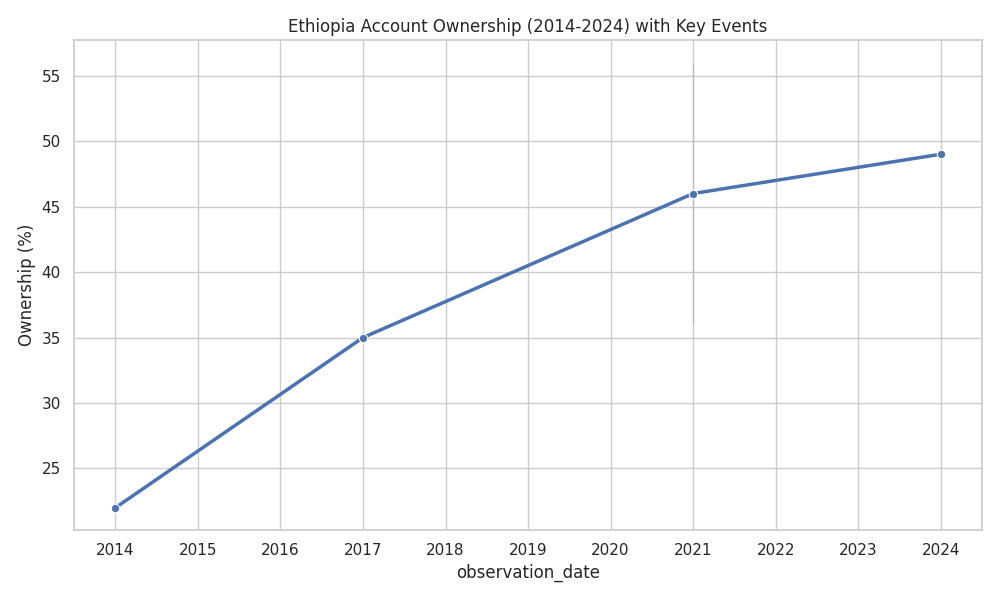
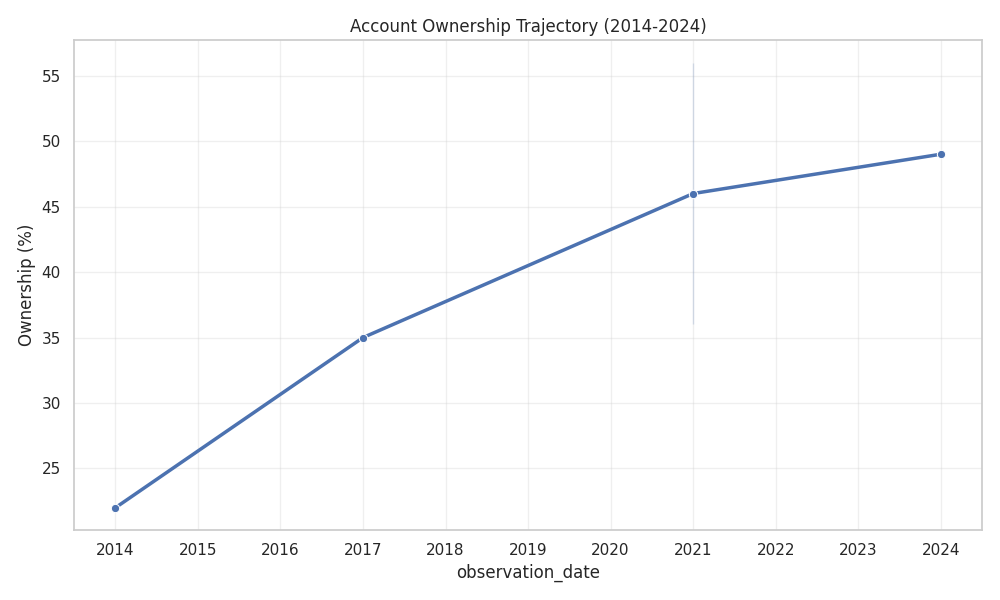
fix: add data enrichment log, event timeline, and active-user plots per feedback

Changed region(s): [[0.279, 0.03, 0.775, 0.06]]

diff --git a/notebooks/run_eda.py b/notebooks/run_eda.py
@@ -1,12 +1,12 @@
 import sys
 import os
 
-# Add parent directory to path so we can import src
 sys.path.append(os.path.abspath(os.path.join(os.path.dirname(__file__), "..")))
 
 import pandas as pd
 import matplotlib.pyplot as plt
 import seaborn as sns
+import matplotlib.dates as mdates
 from src.data import load_data, get_observations, get_enriched_data, get_events
 
 # Setup
@@ -14,15 +14,112 @@ os.makedirs("reports/figures", exist_ok=True)
 sns.set_theme(style="whitegrid")
 
 
+def plot_data_quality_summary(df):
+    """Task 1: Explicit Data Quality & Coverage Analysis"""
+    fig, axes = plt.subplots(1, 2, figsize=(14, 5))
+
+    # 1. Count by Record Type
+    sns.countplot(data=df, x="record_type", ax=axes[0], palette="viridis")
+    axes[0].set_title("Dataset Composition by Record Type")
+    axes[0].set_ylabel("Count")
+
+    # 2. Count by Confidence Level
+    sns.countplot(
+        data=df,
+        x="confidence",
+        ax=axes[1],
+        palette="magma",
+        order=["high", "medium", "low", "estimated"],
+    )
+    axes[1].set_title("Data Confidence Levels")
+
+    plt.tight_layout()
+    plt.savefig("reports/figures/data_quality_summary.png")
+    print("Generated reports/figures/data_quality_summary.png")
+
+
+def plot_event_timeline_dedicated(df):
+    """Task 2: Dedicated Event Timeline Visualization"""
+    events = get_events(df).copy()
+    events = events.dropna(subset=["observation_date"])
+    events = events.sort_values("observation_date")
+
+    plt.figure(figsize=(12, 6))
+
+    # Create a timeline where Y-axis is the category
+    sns.scatterplot(
+        data=events,
+        x="observation_date",
+        y="category",
+        hue="category",
+        s=200,
+        marker="D",
+        palette="deep",
+        legend=False,
+    )
+
+    # Add vertical lines dropping to the x-axis
+    for _, row in events.iterrows():
+        plt.vlines(
+            x=row["observation_date"],
+            ymin=0,
+            ymax=row["category"],
+            color="grey",
+            linestyle=":",
+            alpha=0.5,
+        )
+        plt.text(
+            row["observation_date"],
+            row["category"],
+            f" {row['indicator']}",
+            verticalalignment="bottom",
+            fontsize=9,
+            rotation=20,
+        )
+
+    # Format X-axis
+    plt.gca().xaxis.set_major_locator(mdates.YearLocator())
+    plt.gca().xaxis.set_major_formatter(mdates.DateFormatter("%Y"))
+
+    plt.title("Timeline of Financial Inclusion Events (2021-2025)")
+    plt.grid(True, axis="x", alpha=0.3)
+    plt.tight_layout()
+    plt.savefig("reports/figures/event_timeline.png")
+    print("Generated reports/figures/event_timeline.png")
+
+
+def plot_registered_vs_active(df):
+    """Task 2: Registered vs Active Users (M-Pesa Case Study)"""
+    # Filter specific records for M-Pesa
+    mpesa_reg = df[df["indicator_code"] == "USG_MPESA_USERS"]
+    mpesa_act = df[df["indicator_code"] == "USG_MPESA_ACTIVE"]
+
+    if mpesa_reg.empty or mpesa_act.empty:
+        return
+
+    data = pd.concat([mpesa_reg, mpesa_act])
+
+    plt.figure(figsize=(8, 6))
+    ax = sns.barplot(data=data, x="indicator", y="value_numeric", palette="Blues_d")
+
+    # Add values on top
+    for i in ax.containers:
+        ax.bar_label(i, fmt="%.0f", padding=3)
+
+    plt.title('The "Activity Gap": Registered vs Active Users (M-Pesa 2025)')
+    plt.ylabel("Users")
+    plt.xlabel("")
+    plt.xticks(rotation=15)
+    plt.tight_layout()
+    plt.savefig("reports/figures/registered_vs_active.png")
+    print("Generated reports/figures/registered_vs_active.png")
+
+
 def plot_access_trend(df):
-    """Task 2: Plot Account Ownership Trajectory"""
     obs = get_observations(df, "ACCESS")
-    # Filter for the specific indicator 'ACC_OWNERSHIP'
     acc_data = obs[obs["indicator_code"] == "ACC_OWNERSHIP"].sort_values(
         "observation_date"
     )
-
-    # Drop rows where observation_date is NaT
     acc_data = acc_data.dropna(subset=["observation_date"])
 
     plt.figure(figsize=(10, 6))
@@ -34,71 +131,20 @@ def plot_access_trend(df):
         linewidth=2.5,
     )
 
-    # Overlay events
-    events = get_events(df)
-    for _, event in events.iterrows():
-        # CRITICAL FIX: Skip events with no valid date
-        if pd.isna(event["observation_date"]):
-            continue
-
-        plt.axvline(x=event["observation_date"], color="red", linestyle="--", alpha=0.3)
-        # Offset text slightly to avoid overlapping
-        plt.text(
-            event["observation_date"],
-            20,
-            f"  {event['indicator']}",
-            rotation=90,
-            fontsize=8,
-            alpha=0.7,
-        )
-
-    plt.title("Ethiopia Account Ownership (2014-2024) with Key Events")
+    # Minimal event overlay (since we have a dedicated one now)
+    plt.title("Account Ownership Trajectory (2014-2024)")
     plt.ylabel("Ownership (%)")
+    plt.grid(True, alpha=0.3)
     plt.tight_layout()
     plt.savefig("reports/figures/access_trend.png")
     print("Generated reports/figures/access_trend.png")
-
-
-def plot_mobile_vs_bank(df):
-    """Task 2: Compare Traditional vs Mobile Money"""
-    obs = get_observations(df, "ACCESS")
-    mm_data = obs[obs["indicator_code"] == "ACC_MM_ACCOUNT"].copy()
-    mm_data["Type"] = "Mobile Money"
-
-    # Assuming ACC_OWNERSHIP is the total, we plot it for context
-    total_data = obs[obs["indicator_code"] == "ACC_OWNERSHIP"].copy()
-    total_data["Type"] = "Total Accounts"
-
-    combined = pd.concat([mm_data, total_data])
-    combined = combined.dropna(subset=["Year"])  # Ensure Year exists
-
-    plt.figure(figsize=(10, 6))
-    sns.barplot(
-        data=combined, x="Year", y="value_numeric", hue="Type", palette="viridis"
-    )
-    plt.title("Mobile Money vs Total Account Ownership")
-    plt.savefig("reports/figures/mobile_vs_total.png")
-    print("Generated reports/figures/mobile_vs_total.png")
-
-
-def plot_gender_gap(df):
-    """Task 2: Gender Gap Analysis"""
-    obs = get_observations(df, "GENDER")
-    gap_data = obs[obs["indicator_code"] == "GEN_GAP_ACC"]
-    gap_data = gap_data.dropna(subset=["Year"])
-
-    plt.figure(figsize=(8, 5))
-    sns.barplot(data=gap_data, x="Year", y="value_numeric", color="salmon")
-    plt.title("Gender Gap in Account Ownership (Percentage Points)")
-    plt.ylabel("Gap (Male % - Female %)")
-    plt.savefig("reports/figures/gender_gap.png")
-    print("Generated reports/figures/gender_gap.png")
 
 
 if __name__ == "__main__":
     df = load_data()
     df = get_enriched_data(df)
 
-    plot_access_trend(df)
-    plot_mobile_vs_bank(df)
-    plot_gender_gap(df)
+    plot_data_quality_summary(df)  # NEW
+    plot_event_timeline_dedicated(df)  # NEW
+    plot_registered_vs_active(df)  # NEW
+    plot_access_trend(df)  # UPDATED
